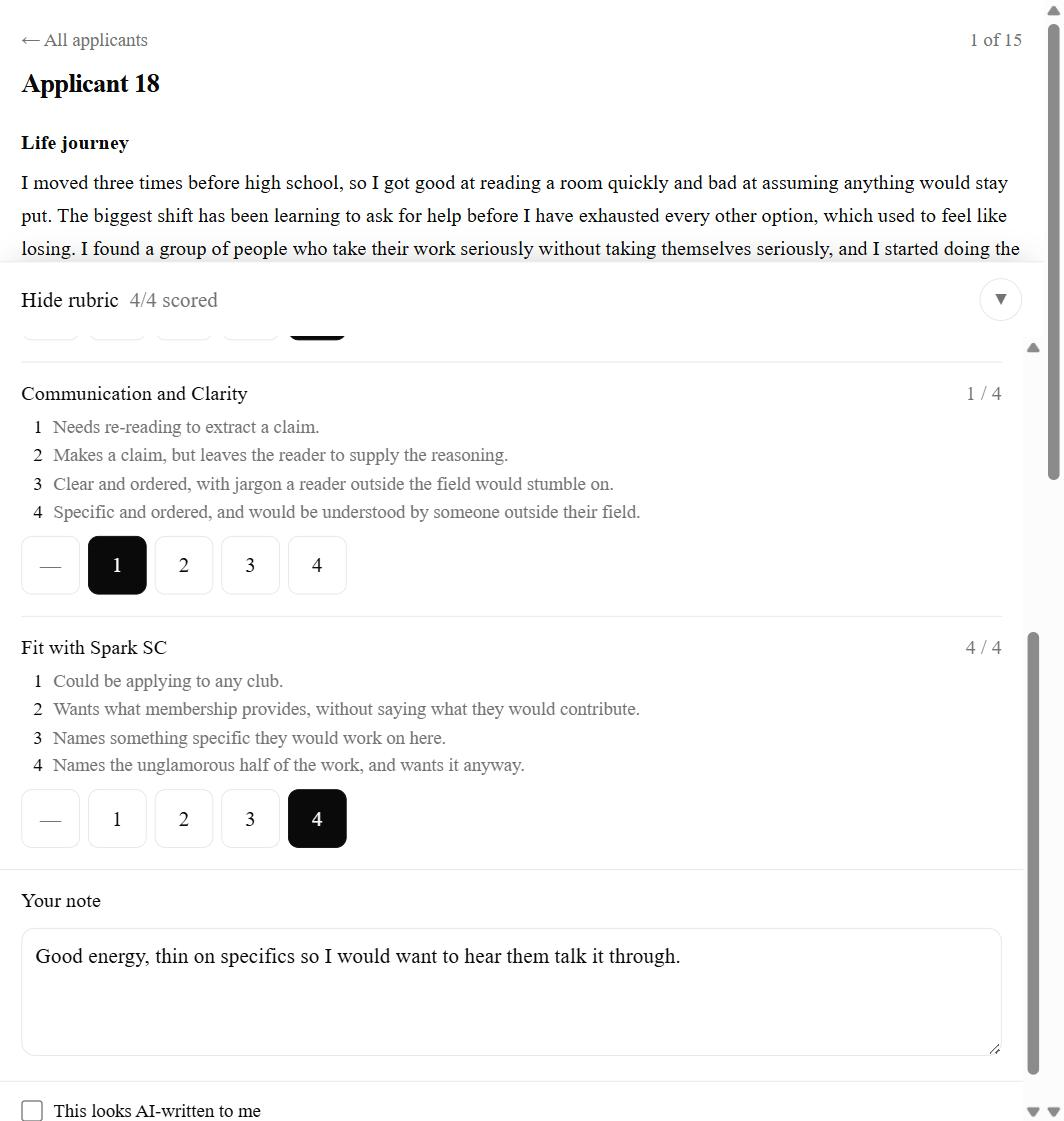
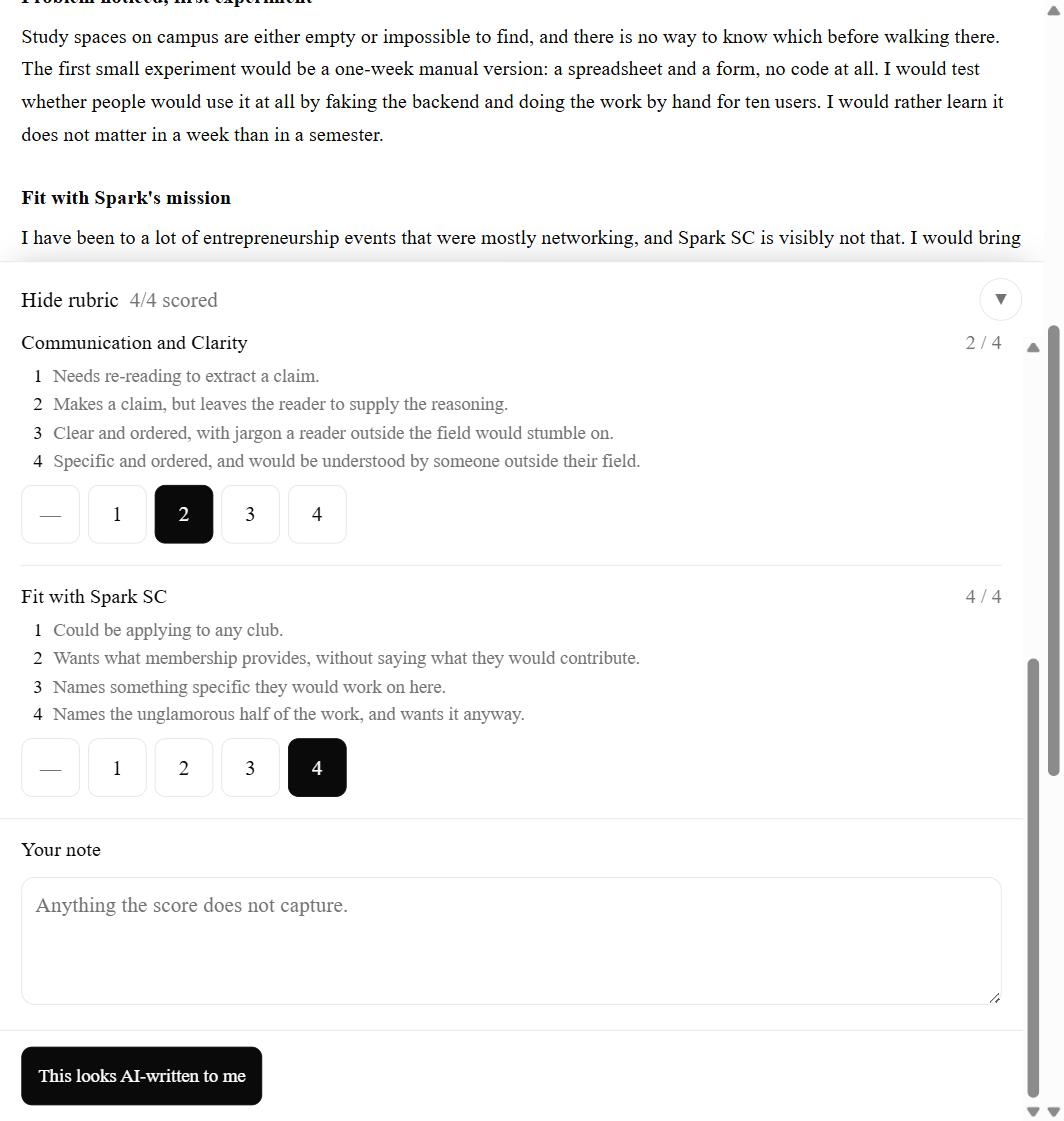
The AI flag becomes a pressed button, in the score row's family
A checkbox and a 44px segmented score button are the same act — one
tap, two states — rendered two different ways in the same card. This
makes them one family: same height, same border, same fill when on,
aria-pressed carrying the state to a screen reader.

The single button is also what makes one press a toggle with no
JavaScript. It carries name="suspectedAiUse" only while the flag is
off, so pressing it then submits the field and applyAiFlag stores true,
and pressing it while on submits a form without that field, which the
action already reads as false. The separate "Save flag" fallback goes
with it: the control and its submitter are now the same element.

Optimistic state, reverted if the write fails. Nothing re-renders this
subtree — the action does not revalidate, deliberately — so the button
owns its own state and a failed save must put it back rather than leave
a pressed control over an unwritten row.

The "goes to the admin running recruitment" line is gone. A list of
consequences under a button someone is deciding whether to press argues
them out of pressing it; REVIEWER_GUIDE answers it instead, and §6
guarantees it.

Both guides and r3-scoring.jpg follow the control. CLAUDE.md gains the
React 19 form-reset trap, including that ScoreField's and NoteField's
preventDefault() is load-bearing for this reason and must not be
cleaned up as duplicated guard-work.

Claude-Session: https://claude.ai/code/session_01CjG3bzCrzqPXEPNo3QwLxa

diff --git a/app/r/[instanceId]/a/[assignmentId]/score-card.tsx b/app/r/[instanceId]/a/[assignmentId]/score-card.tsx
@@ -655,37 +655,46 @@ function NoteField({
 /// **Not on the autosave queue, unlike the scores and the note, and that is a
 /// decision rather than an omission.** The queue exists for work built up over
 /// many edits — a note typed a word at a time, a score changed twice — where
-/// losing the last keystroke costs real thinking. A checkbox is one deliberate
-/// act with two states, so a form posting on change is both simpler and strictly
-/// more reliable: it works before hydration, with JavaScript off, and needs no
-/// draft mirror to survive the tab being killed.
+/// losing the last keystroke costs real thinking. This is one deliberate act
+/// with two states, so a form posting on press is both simpler and strictly more
+/// reliable: it works before hydration, with JavaScript off, and needs no draft
+/// mirror to survive the tab being killed.
 ///
-/// `requestSubmit()` on change, so ticking is the whole interaction. The button
-/// below is the pre-hydration fallback on exactly the note field's terms:
-/// present while the page cannot submit for you, gone once it can.
+/// **A pressed button rather than a checkbox**, in the segmented family the
+/// score row uses, because it is the same kind of act: one tap, two states, a
+/// 44px target, and a control whose state is legible from across the room rather
+/// than from a 16px box. `aria-pressed` is what carries that to a screen reader,
+/// which is the half a styled checkbox would have lost.
 ///
-/// **`intercept` is what stops the box unticking itself, and it is not optional.**
-/// React 19 requests a form reset whenever a form with a *function* action is
-/// submitted — `requestFormReset(formFiber); return action(formData)` in
-/// react-dom-client. The reset lands when the action's transition completes and
-/// restores every uncontrolled field to the `defaultChecked` of the committed
-/// render. `saveAiFlagForm` deliberately never revalidates, so no corrected
-/// value ever arrives: the write succeeds, the box springs back, and the screen
-/// then disagrees with the database until the page is reloaded. Measured at
-/// ~1.3s after the tap on a local server, which is why it reads as intermittent
-/// rather than as a control that plainly does not work.
+/// **The single button is also what makes one tap a toggle without JavaScript.**
+/// It carries `name="suspectedAiUse"` only while the flag is *off*: pressing it
+/// then submits the field and the action stores true, and pressing it while on
+/// submits a form with no such field, which `applyAiFlag` reads as false. So the
+/// no-JS path toggles correctly on its own, and there is no separate save button
+/// to explain — the control and its submitter are the same thing.
+///
+/// **`intercept` is what stops the flag reverting after it saves, and it is not
+/// optional.** React 19 requests a form reset whenever a form with a *function*
+/// action is submitted — `requestFormReset(formFiber); return action(formData)`
+/// in react-dom-client. The reset lands when the action's transition completes
+/// and restores uncontrolled fields to the committed render's values.
+/// `saveAiFlagForm` deliberately never revalidates, so no corrected value ever
+/// arrives: the write succeeded, the control sprang back, and the screen then
+/// disagreed with the database until reload. Measured at ~1.3s after the tap,
+/// which is why it read as intermittent rather than plainly broken.
 ///
 /// `preventDefault` first, exactly as `ScoreField` and `NoteField` do it — that
 /// is why neither of them has ever shown this, and why the note textarea would
-/// start clearing itself mid-sentence if anyone removed the interceptor there
-/// as redundant. The native POST is untouched: before hydration React has
-/// attached no handler, so the fallback button still submits for real.
+/// start clearing itself mid-sentence if anyone removed the interceptor there as
+/// redundant. The native POST is untouched: before hydration React has attached
+/// no handler, so a press still submits for real.
 ///
 /// **The wording is load-bearing.** "Looks AI-written to me" rather than "AI
 /// detected" — nothing detects anything, §11 keeps that out of scope, and the
-/// label must not let a reviewer believe the system agreed with them. The line
-/// underneath says where it goes, because someone filing an unverified claim
-/// about a person is entitled to know who reads it.
+/// label must not let a reviewer believe the system agreed with them. Where it
+/// goes is answered in REVIEWER_GUIDE.md rather than under the control: a line
+/// of consequences under a button an anxious reviewer is deciding whether to
+/// press argues them out of pressing it, and §6 already guarantees the answer.
 function AiFlagField({
   instanceId,
   assignmentId,
@@ -695,49 +704,60 @@ function AiFlagField({
   assignmentId: string;
   flagged: boolean;
 }) {
-  const hydrated = useHydrated();
-  const formRef = useRef<HTMLFormElement>(null);
   const [pending, start] = useTransition();
   const [error, setError] = useState<string | null>(null);
+
+  // Optimistic, because nothing re-renders this subtree: the action does not
+  // revalidate, on purpose. `flagged` is therefore the value from page load and
+  // this is the live one. If a `revalidatePath` is ever added to the action,
+  // resync on the prop rather than leaving the two to drift.
+  const [on, setOn] = useState(flagged);
 
   function intercept(event: React.FormEvent<HTMLFormElement>) {
     event.preventDefault();
 
-    const data = new FormData(event.currentTarget);
+    // The submitter decides what is sent, so it also decides what was meant:
+    // carrying the name means "turning it on". Read from the event rather than
+    // from `on`, so the optimistic state can never disagree with the request.
+    const submitter = (event.nativeEvent as SubmitEvent).submitter as HTMLButtonElement | null;
+    const next = submitter?.name === "suspectedAiUse";
+    const data = new FormData(event.currentTarget, submitter);
+
+    setOn(next);
     start(async () => {
       const result = await saveAiFlag(data);
-      setError(result.ok ? null : (result.error ?? "Could not save. Try again."));
+      if (result.ok) {
+        setError(null);
+        return;
+      }
+      // Put it back. A control that stays pressed after a failed write is the
+      // same lie the reset bug told, in the other direction.
+      setOn(!next);
+      setError(result.error ?? "Could not save. Try again.");
     });
   }
 
   return (
-    <form ref={formRef} action={saveAiFlagForm} onSubmit={intercept}>
+    <form action={saveAiFlagForm} onSubmit={intercept}>
       <input type="hidden" name="instanceId" value={instanceId} />
       <input type="hidden" name="assignmentId" value={assignmentId} />
 
-      <label className="flex items-start gap-2 text-sm">
-        <input
-          type="checkbox"
-          name="suspectedAiUse"
-          defaultChecked={flagged}
-          disabled={pending}
-          onChange={() => formRef.current?.requestSubmit()}
-          className="mt-0.5 size-4 shrink-0"
-        />
-        <span>
-          This looks AI-written to me
-          <span className="text-muted-foreground block text-xs">
-            Goes to the admin running recruitment, with your name. No other reviewer sees it, and
-            nothing is decided by it on its own.
-          </span>
-        </span>
-      </label>
-
-      {!hydrated ? (
-        <button type="submit" className="hover:bg-muted mt-2 h-11 rounded-md border px-3 text-sm">
-          Save flag
-        </button>
-      ) : null}
+      <button
+        type="submit"
+        // Present only while off, which is what makes one press a toggle. See
+        // the block comment above.
+        {...(on ? {} : { name: "suspectedAiUse", value: "on" })}
+        aria-pressed={on}
+        disabled={pending}
+        className={
+          "h-11 shrink-0 rounded-md border px-3 text-sm transition-colors " +
+          (on
+            ? "border-foreground bg-foreground text-background font-medium"
+            : "hover:bg-muted")
+        }
+      >
+        This looks AI-written to me
+      </button>
 
       {/* Silent failure is the one outcome this control must not have: the
           reviewer has no other signal that their read was recorded, and the

diff --git a/CLAUDE.md b/CLAUDE.md
@@ -61,6 +61,14 @@ Scale: 160+ applicants, ~30 reviewers, one cycle per semester. This is not a hig
 
   **So: run `npm run build` before calling a slice done whenever it touched a file carrying a directive, added a client component, or changed what crosses that boundary** — not only when it touched an actions file. It takes a few seconds and is the only thing that checks any of this.
 
+- **React 19 resets a `<form action={fn}>` after the action runs, and `verify` cannot see it.** `react-dom-client` does `requestFormReset(formFiber); return action(formData)` on submit, so every *uncontrolled* field in that form is restored to the committed render's `defaultValue`/`defaultChecked` when the action's transition completes. Typecheck, lint and all 903 tests stay green; the defect exists only in a browser, roughly a second after a tap.
+
+  It bites wherever a field's value is meant to **survive** the submit rather than be cleared — an edit-in-place control, not a create-and-clear form. Phase 9's AI flag was exactly that: the write succeeded, the checkbox sprang back to unticked, the action deliberately never revalidated so no corrected value ever followed, and the screen then disagreed with the database until reload. Worse than a control that plainly does not work, because the reviewer's obvious next move — press it again — sent the opposite value and silently retracted their own flag.
+
+  **`ScoreField` and `NoteField` are immune only because their `onSubmit={intercept}` calls `preventDefault()` first, and that is load-bearing rather than duplicated guard-work.** Its comment explains the double-dispatch it prevents; suppressing this reset is a second job it does silently. **Do not "clean it up" as redundant** — the note textarea would begin wiping itself back to the last server-rendered body while a reviewer is mid-sentence, which is this bug on the field where it costs the most. If you ever remove an interceptor, the field it guards must become controlled in the same change.
+
+  Native `method="get"` forms are unaffected: React's action path never runs for them.
+
 - **Restart `next dev` after any `prisma generate` or `prisma migrate`.** The generated client is regenerated on disk, but a running dev server keeps the old one in memory — so the server serves a client that does not know the column you just added, and fails with `Unknown field 'x' for select statement on model 'Y'` at runtime. Nothing in the toolchain warns you: `npm run verify` reads the new client from disk and passes completely, so typecheck, lint and every test go green while the app is broken. This cost a full round of misdiagnosis in Phase 3 — the owner found it from a browser error overlay after being sent to look at the network, because the reachability checks had probed routes that did not touch the new column.
 
   Two corollaries worth having in front of you. **Check the route that is actually failing, not a neighbouring one**: a 200 from a page that avoids the new column proves nothing about the page that uses it. And **read the dev server log before theorising** — the untruncated Prisma error names the exact field, and it is in `next dev`'s output the whole time.
@@ -94,14 +102,26 @@ Three things about that, learned the hard way in Phase 9:
   migrates production — so scope the variable to Production only, or give
   Preview its own Neon branch. Check this before the first push, not after.
 
-**The production database was never migrated before 2026-09-09** — it was found
-serving an app that crashed on a missing `RateLimitBucket`, twelve migrations
-into an eighteen-migration history. If `migrate deploy` reports **P3005** ("the
-database schema is not empty"), that is this: tables that exist without a
-`_prisma_migrations` row to explain them, almost certainly from a `prisma db
-push`. Baseline it with `prisma migrate resolve --applied <name>` for each
-migration already reflected in the schema, or — while no real cycle has run —
-drop and recreate the database and let the deploy build it from nothing.
+**Production was five weeks stale on 2026-09-09**, which is what this fixes and
+what it is worth understanding precisely. `_prisma_migrations` held rows through
+`20260809200000_import_row_discarded` and nothing after: migrations had been run
+by hand once, in early August, and then never again. So production served code
+expecting `RateLimitBucket` — added 2026-08-30 — against a schema frozen on
+2026-08-09, and crashed on the missing table at sign-in. The first automated
+deploy applied the 13 pending migrations in one go, cleanly, through Neon's
+pooled endpoint.
+
+**The failure mode was not a forgotten command, it was an unowned step**, and
+that is the general form: any deployment step a human has to remember is a step
+that eventually stops happening, and the gap only shows up as a runtime crash
+weeks later in the one environment nobody develops against. Two guesses made
+while diagnosing it were both wrong and are recorded so the next reader does not
+repeat them — that production had *never* been migrated, and that `migrate
+deploy` would therefore refuse with **P3005** ("the database schema is not
+empty", the signature of tables created by `prisma db push`). Neither held: a
+partially-migrated database is not an unexplained one, and `migrate deploy`
+simply applies what is pending. The tell was in the log — `18 migrations found`
+against 13 applied.
 
 ## Testing
 

diff --git a/REVIEWER_GUIDE.md b/REVIEWER_GUIDE.md
@@ -65,16 +65,18 @@ it is what gets read when two reviewers disagree about someone.
 
 ### If the writing looks AI-generated
 
-At the bottom of the card there is one checkbox: **This looks AI-written to me.**
+At the bottom of the card there is one button: **This looks AI-written to me.**
 
-Tick it if that is your honest read. It goes to the admin running recruitment
-with your name on it, no other reviewer sees it, and **nothing is decided by it
-on its own** — three reviewers disagreeing about one application is exactly the
-signal it exists to surface. Nothing in the tool detects anything; this is your
-judgement, recorded, and it is a reason for someone to read the application
-again rather than a verdict.
+Press it if that is your honest read. It fills in dark to show it is on, the same
+way a score button does, and pressing it again turns it off.
 
-Leave it alone if you are unsure. An unticked box says nothing about you.
+It goes to the admin running recruitment with your name on it, no other reviewer
+sees it, and **nothing is decided by it on its own** — three reviewers
+disagreeing about one application is exactly the signal it exists to surface.
+Nothing in the tool detects anything; this is your judgement, recorded, and it is
+a reason for someone to read the application again rather than a verdict.
+
+Leave it alone if you are unsure. A button you never pressed says nothing about you.
 
 Then go back and pick the next one. You do not have to do them all at once.
 
@@ -209,7 +211,7 @@ applicant and the vote is at the bottom of their page.
 
 **I ticked "this looks AI-written" — what happens?** It reaches the admin
 running recruitment, with your name. No other reviewer sees it, and nothing is
-decided by it alone. Untick it if you change your mind.
+decided by it alone. Press it again if you change your mind.
 
 **I closed the tab halfway through — did I lose it?** No. Everything saved as you
 tapped.

diff --git a/ADMIN_GUIDE.md b/ADMIN_GUIDE.md
@@ -450,7 +450,7 @@ forget. This is where step 4's writing does its work: what you wrote for a 3 is
 what stands between thirty people scoring the same thing and thirty people
 scoring thirty things.
 
-They also get one checkbox per applicant: **This looks AI-written to me.** It is
+They also get one button per applicant: **This looks AI-written to me.** It is
 their own read, no other reviewer sees it, and it reaches you and nobody else —
 on the results table's **AI?** column and on the applicant's page. See step 8.
 
